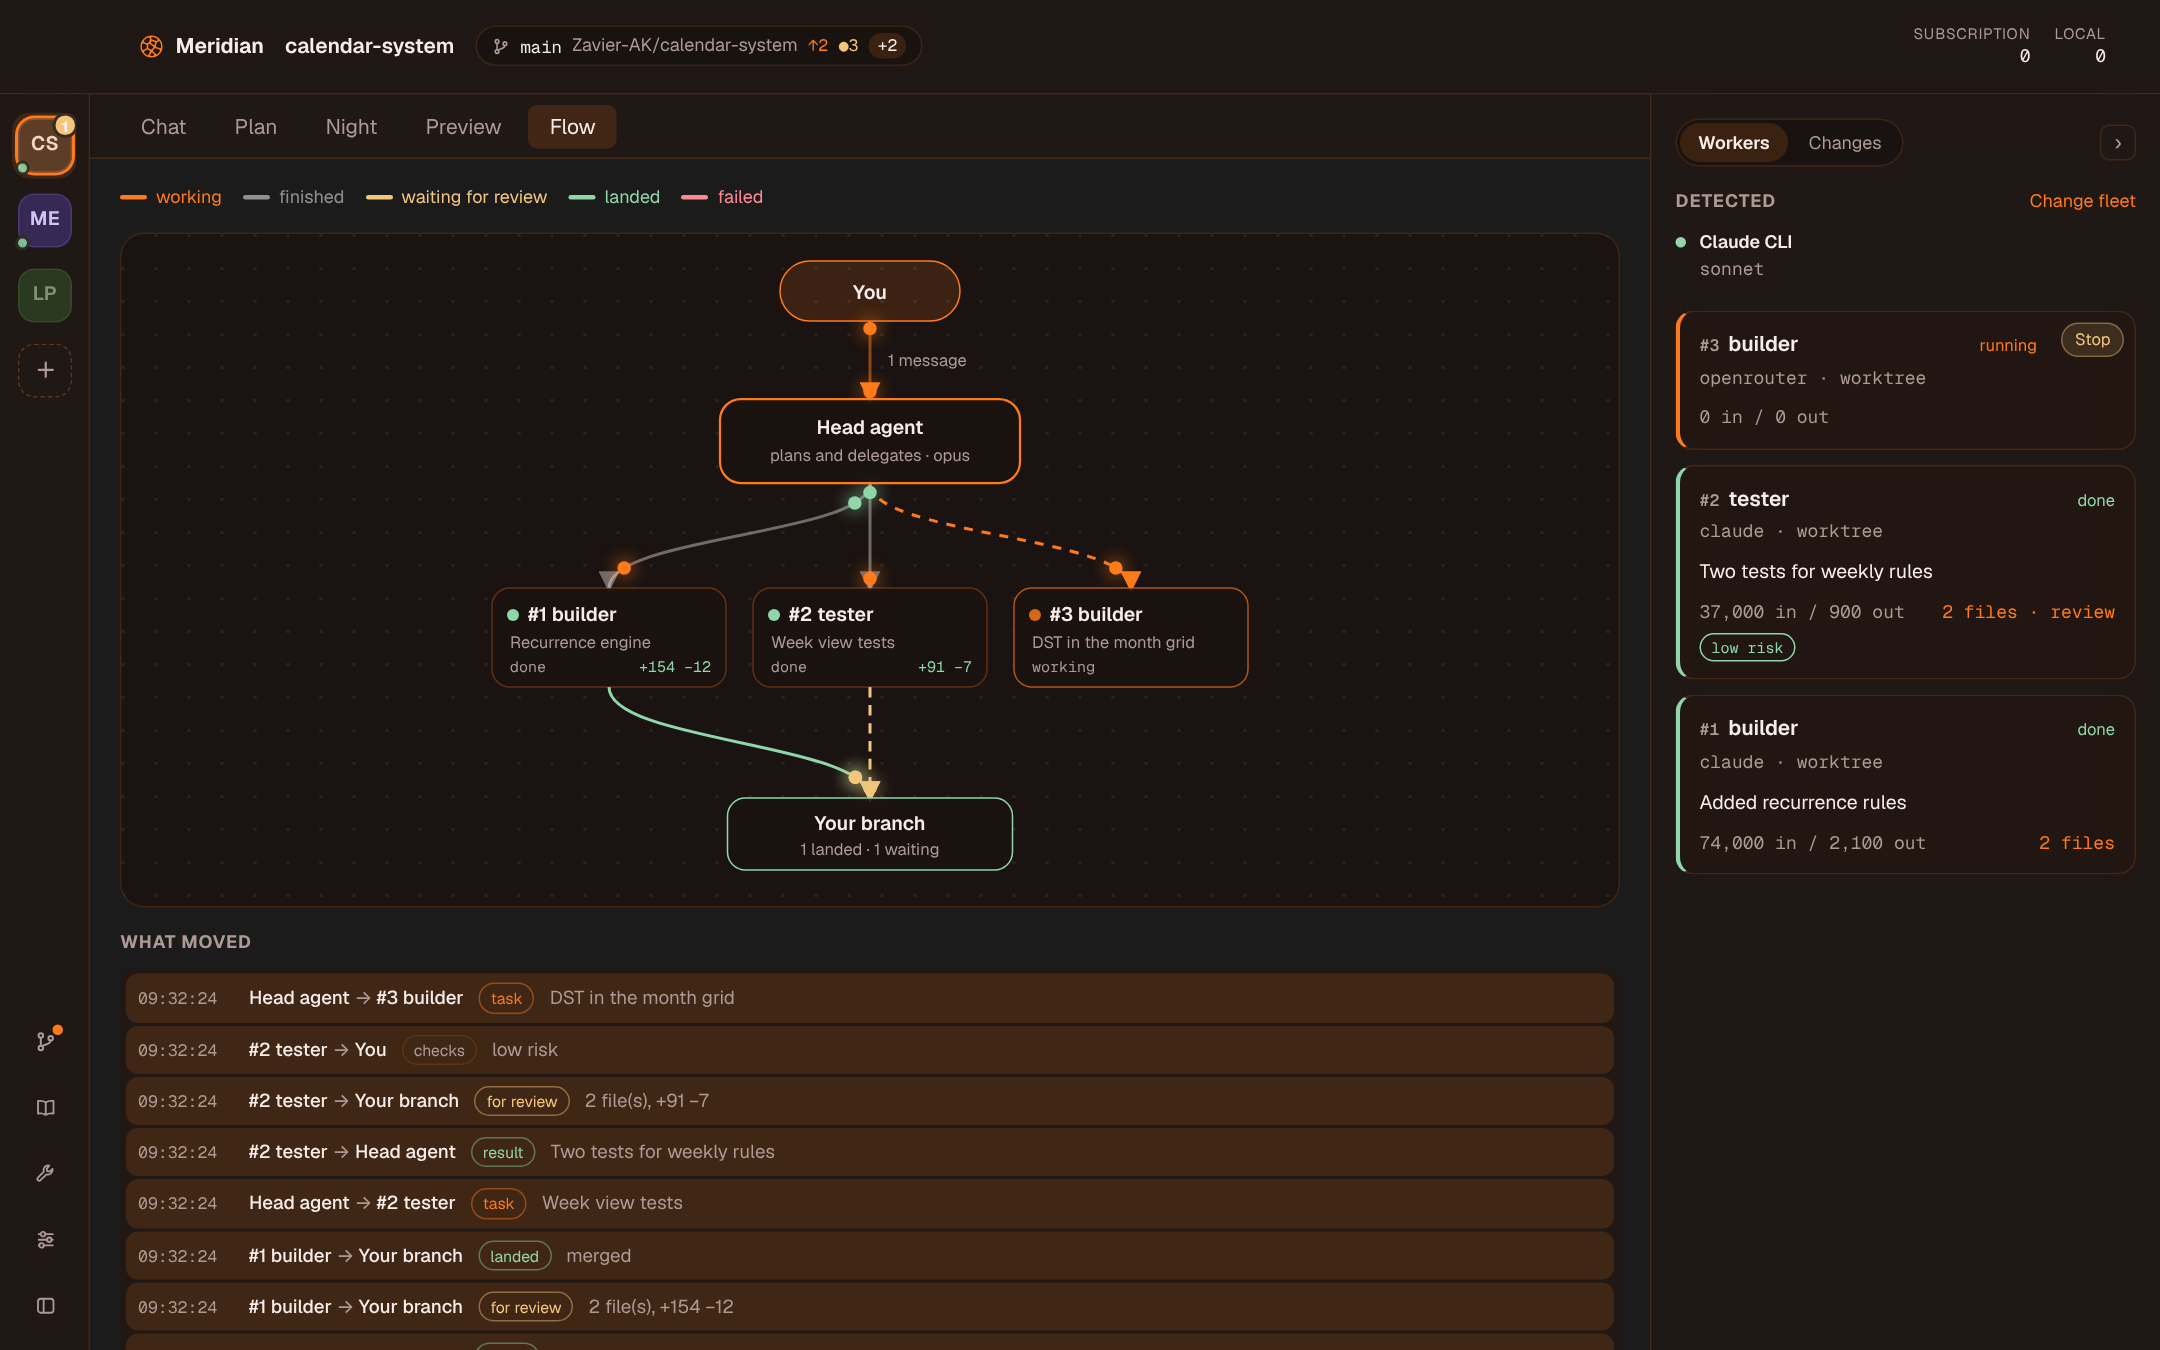
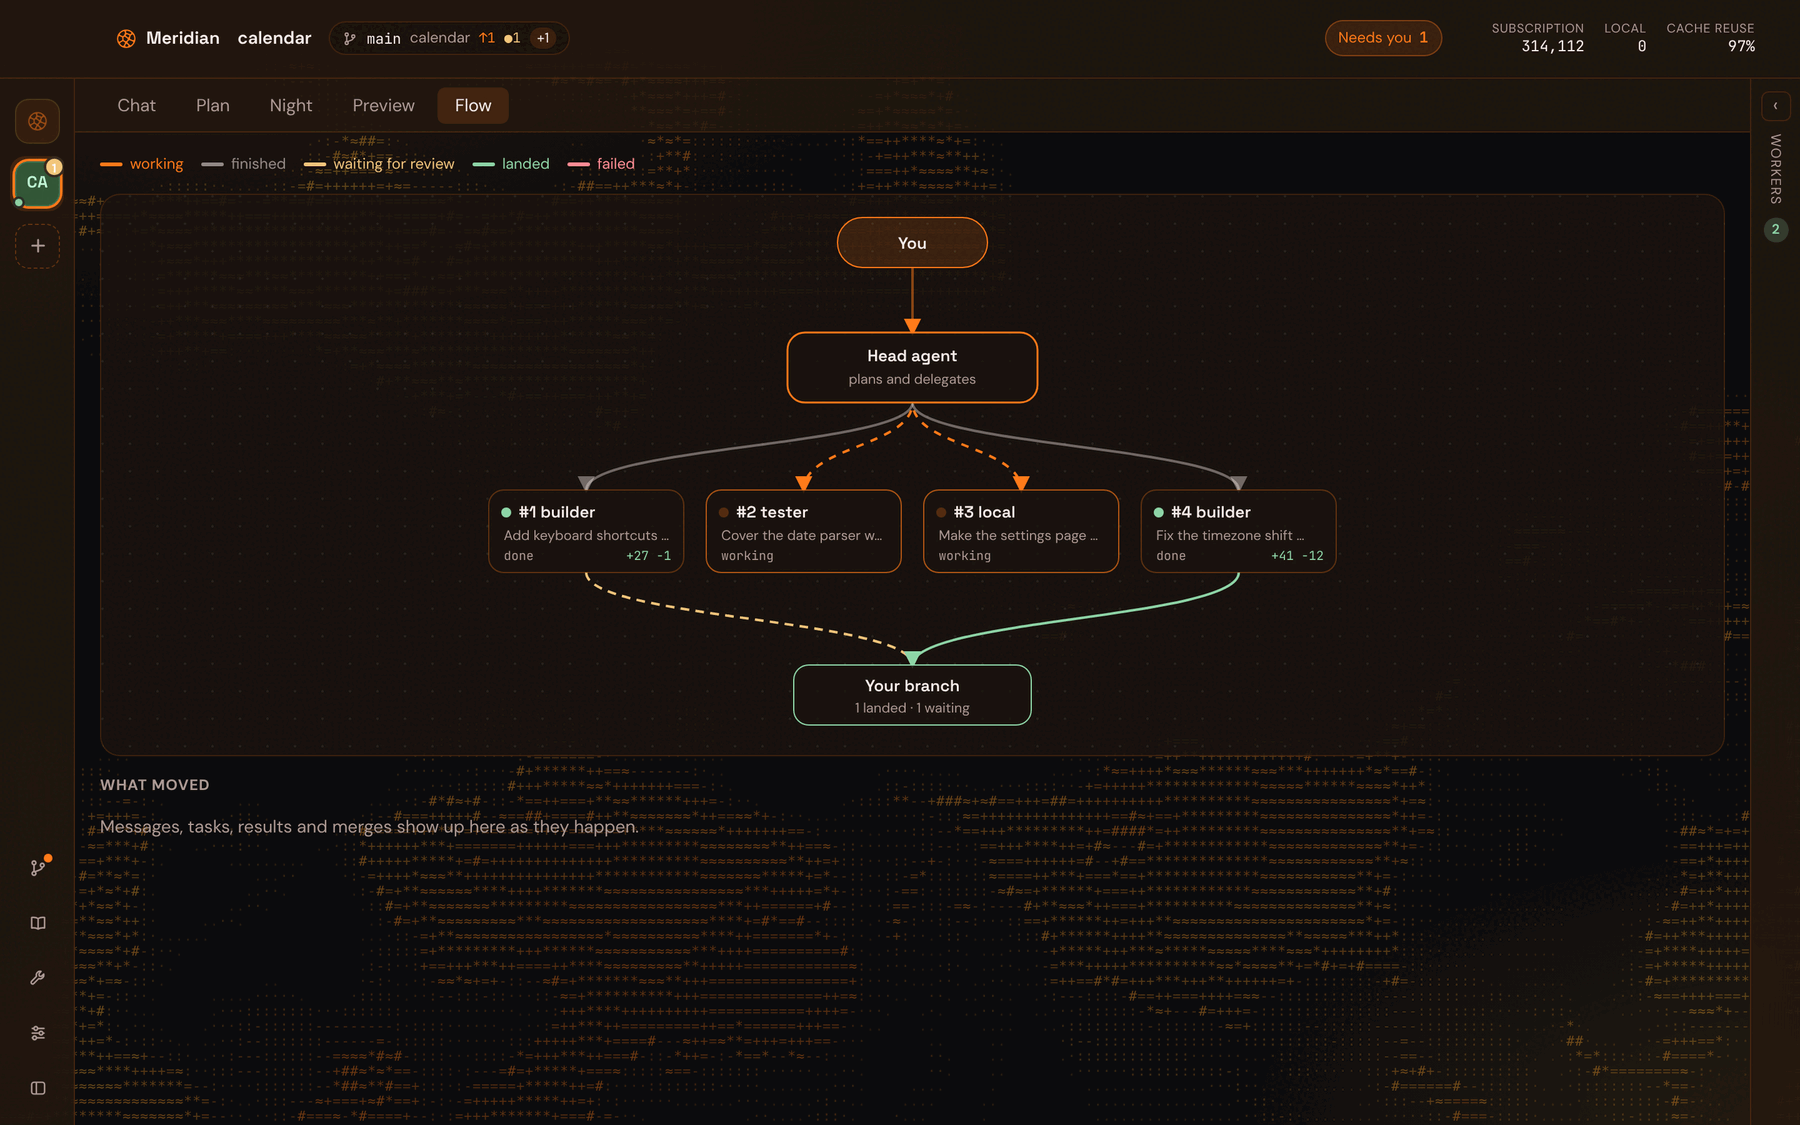
Refresh the README and its screenshots
The README now covers the ASCII background, the review-driven night shift,
conversations that stay in the chat, and the head agent's Sonnet default,
and Getting started says the app opens straight into a chat.

Its screenshots are retaken from the real UI: the hero, chat, Changes and
GitHub in the black-and-white Graphite theme; Flow, Review, the autonomy
slider and a Sakura background in Ember; plus a row of three backgrounds.
docs/illustrations/readme-shots/capture.mjs retakes them all against a
stand-in backend.

Claude-Session: https://claude.ai/code/session_01UizTfERu5yCuhw5uFn1WTA

diff --git a/README.md b/README.md
@@ -9,14 +9,15 @@ nothing touches your code until you've reviewed it. Every agent is the vendor's 
 `claude`, `codex` — or a local model, so the work runs on Claude and ChatGPT subscriptions
 instead of API billing, and local models cost nothing.
 
-![Meridian's home chat: a request, the head agent's reply, Meridian's notice that the worker finished, and its change waiting for review](docs/screenshots/home.png)
+![Meridian in the Graphite theme: the head agent splitting a request across three workers, one change checked and waiting for review, with the Liquid ASCII background moving behind the chat](docs/screenshots/home.png)
 
 ## What it does
 
-![The chat with the head agent, workers running on the right](docs/screenshots/chat.png)
+![The chat with the head agent, side panels folded away, the Leaves background framing it](docs/screenshots/chat.png)
 
 - **Opens straight into a chat.** No folder to pick first: Meridian starts in its own
-  home folder, ready to type into. Ask anything there, or open a project from the sidebar.
+  home folder, ready to type into, with both side panels folded away until you want
+  them. Ask anything there, or open a project from the sidebar.
 - **Delegates in parallel.** Ask for a change; the head agent splits it up and hands the
   pieces to workers — builders, testers, reviewers — each in its own worktree on its own
   branch. Claude, Codex and local models (Ollama, LM Studio) can all be workers, and so can
@@ -35,10 +36,16 @@ instead of API billing, and local models cost nothing.
 - **You choose how much runs alone.** A slider, from *Ask* (every step waits for you) to
   *Land most* (verified, low-risk changes land by themselves).
 - **Plans and night shifts.** Multi-step work becomes a plan on a board, which runs by
-  itself (or waits for you, with the slider on *Ask*) and can be stopped at any point. A
-  night shift works through a list of tasks overnight, sending each back to be fixed
-  until it passes your checks and an independent review (or runs experiments and keeps
-  only the ones that improve a metric).
+  itself (or waits for you, with the slider on *Ask*) and can be stopped at any point.
+  Leave a [night shift](docs/GUIDE.md#night-shift) a list of tasks: each is built, then
+  checked by your tests and reviewed by another role, and sent back with what they found
+  until it passes. In the morning, what passed is on one branch for you, and anything
+  still failing is waiting with the findings. (Or give it a score to improve, and it
+  keeps only the changes that improve it.)
+- **Conversations you can scroll back through.** *New conversation* gives the head agent
+  a fresh start (a long one costs context on every turn), but the old one stays in the
+  chat above a divider, after a restart too. The head agent runs on the newest Sonnet
+  unless you choose another model; `sonnet` and `opus` always mean the newest of each.
 - **Remembers between projects.** A folder of markdown notes (Obsidian works) holds what
   agents learn and how you like to work. Each session gets only a short part of it up
   front and searches the rest, and every note an agent writes shows in the chat. See
@@ -50,7 +57,11 @@ instead of API billing, and local models cost nothing.
   sees it and can hand it to a worker. Screenshots the agents take of what they build
   appear in the chat too.
 - **Make it yours.** Pick three colours (a base, an accent and a second accent) or
-  start from a preset, and a typeface. See [look and feel](docs/GUIDE.md#look-and-feel).
+  start from a preset, and a typeface. Behind it all runs a slow, moving ASCII
+  background in your accent colours: *Liquid*, *Tide*, *Current*, *Ripple*, *Leaves* or
+  *Sakura*, with its strength, speed and grain up to you (or off). It's drawn off the
+  page's thread, pauses while the window is hidden, and holds still with Reduce Motion.
+  See [look and feel](docs/GUIDE.md#look-and-feel).
 - **Talk to it.** Hold ⌥Space anywhere: "what's waiting for me?", "merge the builder's
   change", "find me a cheaper flight". Web tasks run in their own browser and always ask
   before sending, buying or posting.
@@ -59,11 +70,24 @@ instead of API billing, and local models cost nothing.
 
 <table>
   <tr>
+    <td width="33%"><img src="docs/screenshots/background-liquid.png" alt="The Liquid background in Graphite: blobs of characters drifting and merging behind the chat"></td>
+    <td width="33%"><img src="docs/screenshots/background-leaves.png" alt="The Leaves background in Graphite: a canopy of characters hanging from both top corners"></td>
+    <td width="33%"><img src="docs/screenshots/background-sakura.png" alt="The Sakura background in Ember: a blossom branch in the corner and petals falling"></td>
+  </tr>
+  <tr>
+    <td><b>Liquid</b></td>
+    <td><b>Leaves</b></td>
+    <td><b>Sakura</b>, in Ember</td>
+  </tr>
+</table>
+
+<table>
+  <tr>
     <td width="50%"><img src="docs/screenshots/flow.png" alt="The Flow tab: you, the head agent, the workers, your branch and GitHub, with what moved between them"></td>
     <td width="50%"><img src="docs/screenshots/changes.png" alt="The Changes panel: every file touched, lines added and removed, and which agent touched it"></td>
   </tr>
   <tr>
-    <td><b>Flow</b> — who's doing what, and what's moving between them.</td>
+    <td><b>Flow</b> — who's doing what, and what's moving between them (Ember).</td>
     <td><b>Changes</b> — every file touched this session, by file or by agent.</td>
   </tr>
   <tr>
@@ -71,8 +95,8 @@ instead of API billing, and local models cost nothing.
     <td width="50%"><img src="docs/screenshots/slider.png" alt="The autonomy slider in the chat bar"></td>
   </tr>
   <tr>
-    <td><b>Review</b> — comment on lines and send it back, merge, or open a PR.</td>
-    <td><b>Autonomy</b> — how much runs without you.</td>
+    <td><b>Review</b> — comment on lines and send it back, merge, or open a PR (Ember).</td>
+    <td><b>Autonomy</b> — how much runs without you (Ember).</td>
   </tr>
   <tr>
     <td colspan="2"><img src="docs/screenshots/github.png" alt="The GitHub view: every repository in the project, its branches and pull requests"></td>
@@ -99,8 +123,9 @@ Launchpad, Spotlight or the Dock. **To update, run `./scripts/install-mac.sh` ag
 pulls the latest code, rebuilds and reinstalls. Working on Meridian itself? `cd app &&
 npm install && npm run tauri dev` runs it with live reload instead.
 
-Pick a project folder and press **Start session**. If the folder isn't a git repository
-or has no fleet (`roles.toml`) yet, the start screen offers to set both up.
+It opens straight into a chat in its home folder. To work on a project, press **+** in the
+sidebar and pick its folder; if it isn't a git repository or has no fleet
+(`roles.toml`) yet, Meridian offers to set both up.
 
 Prefer a terminal? The same engine runs headless:
 
@@ -142,7 +167,7 @@ your OpenRouter key and nothing else.
   [local models](docs/GUIDE.md#attaching-a-local-model),
   [OpenRouter](docs/GUIDE.md#openrouter),
   [notes](docs/GUIDE.md#notes),
-  [themes](docs/GUIDE.md#look-and-feel),
+  [themes and backgrounds](docs/GUIDE.md#look-and-feel),
   [plugins](docs/GUIDE.md#plugins),
   [sign-in problems](docs/GUIDE.md#when-claudes-sign-in-fails).
 - **[Project status](docs/STATUS.md)** — what's verified, what isn't, and what's next.
